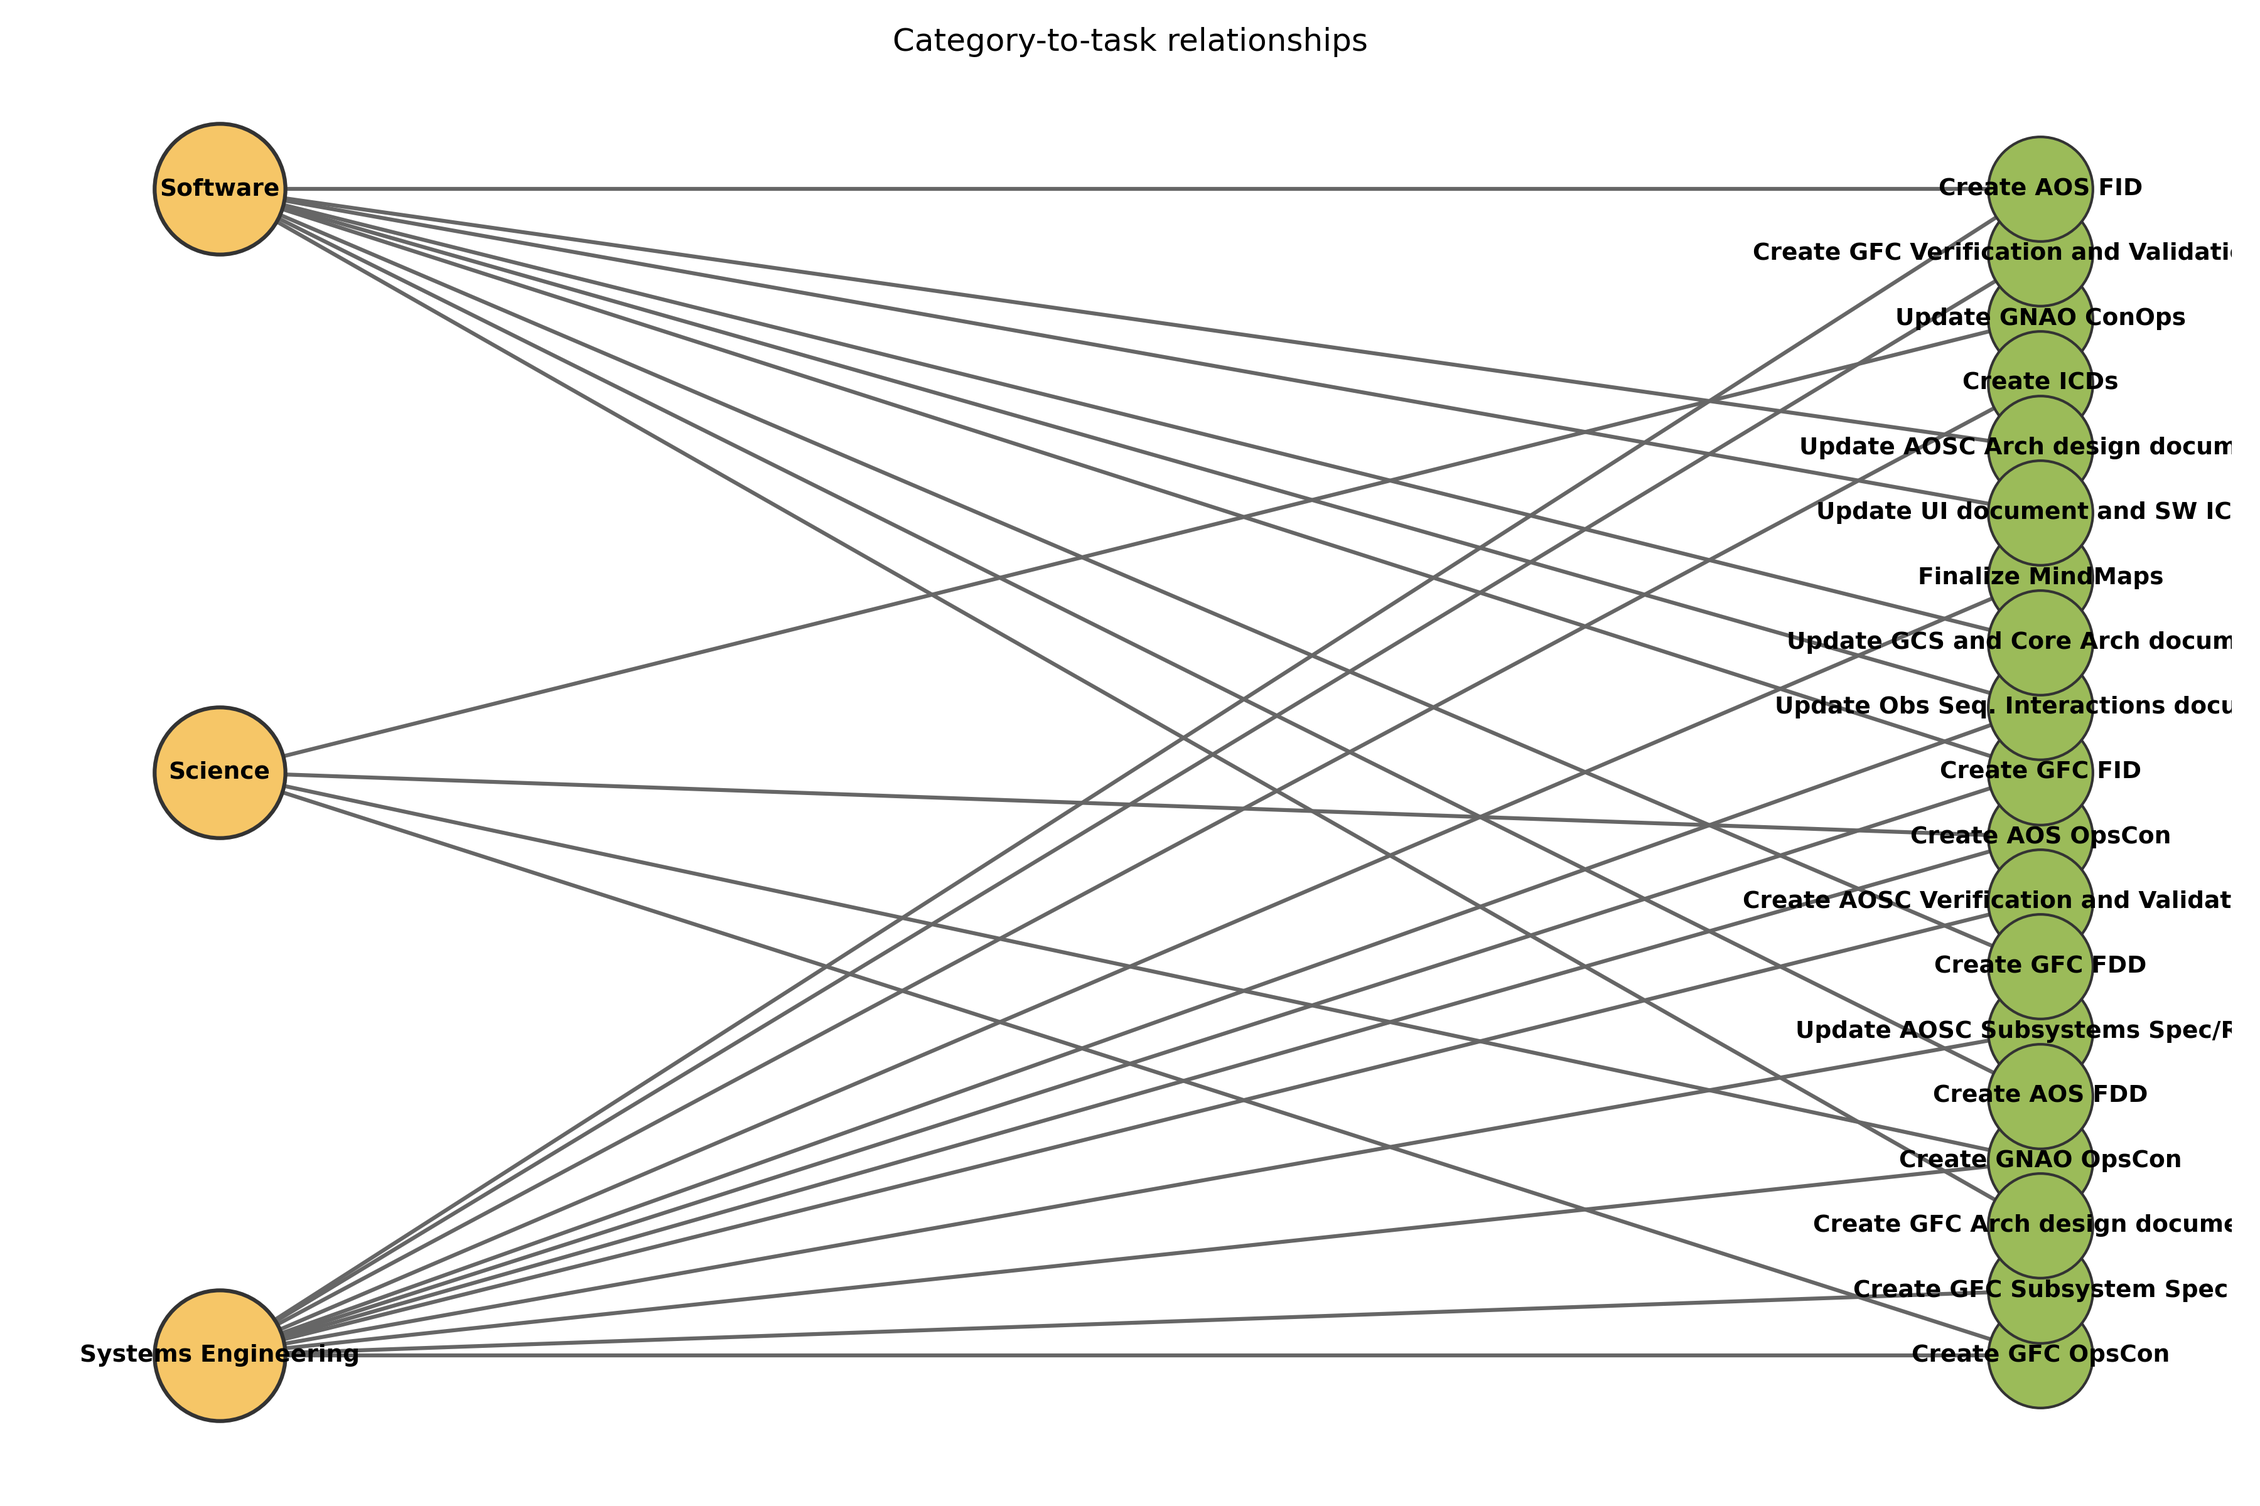
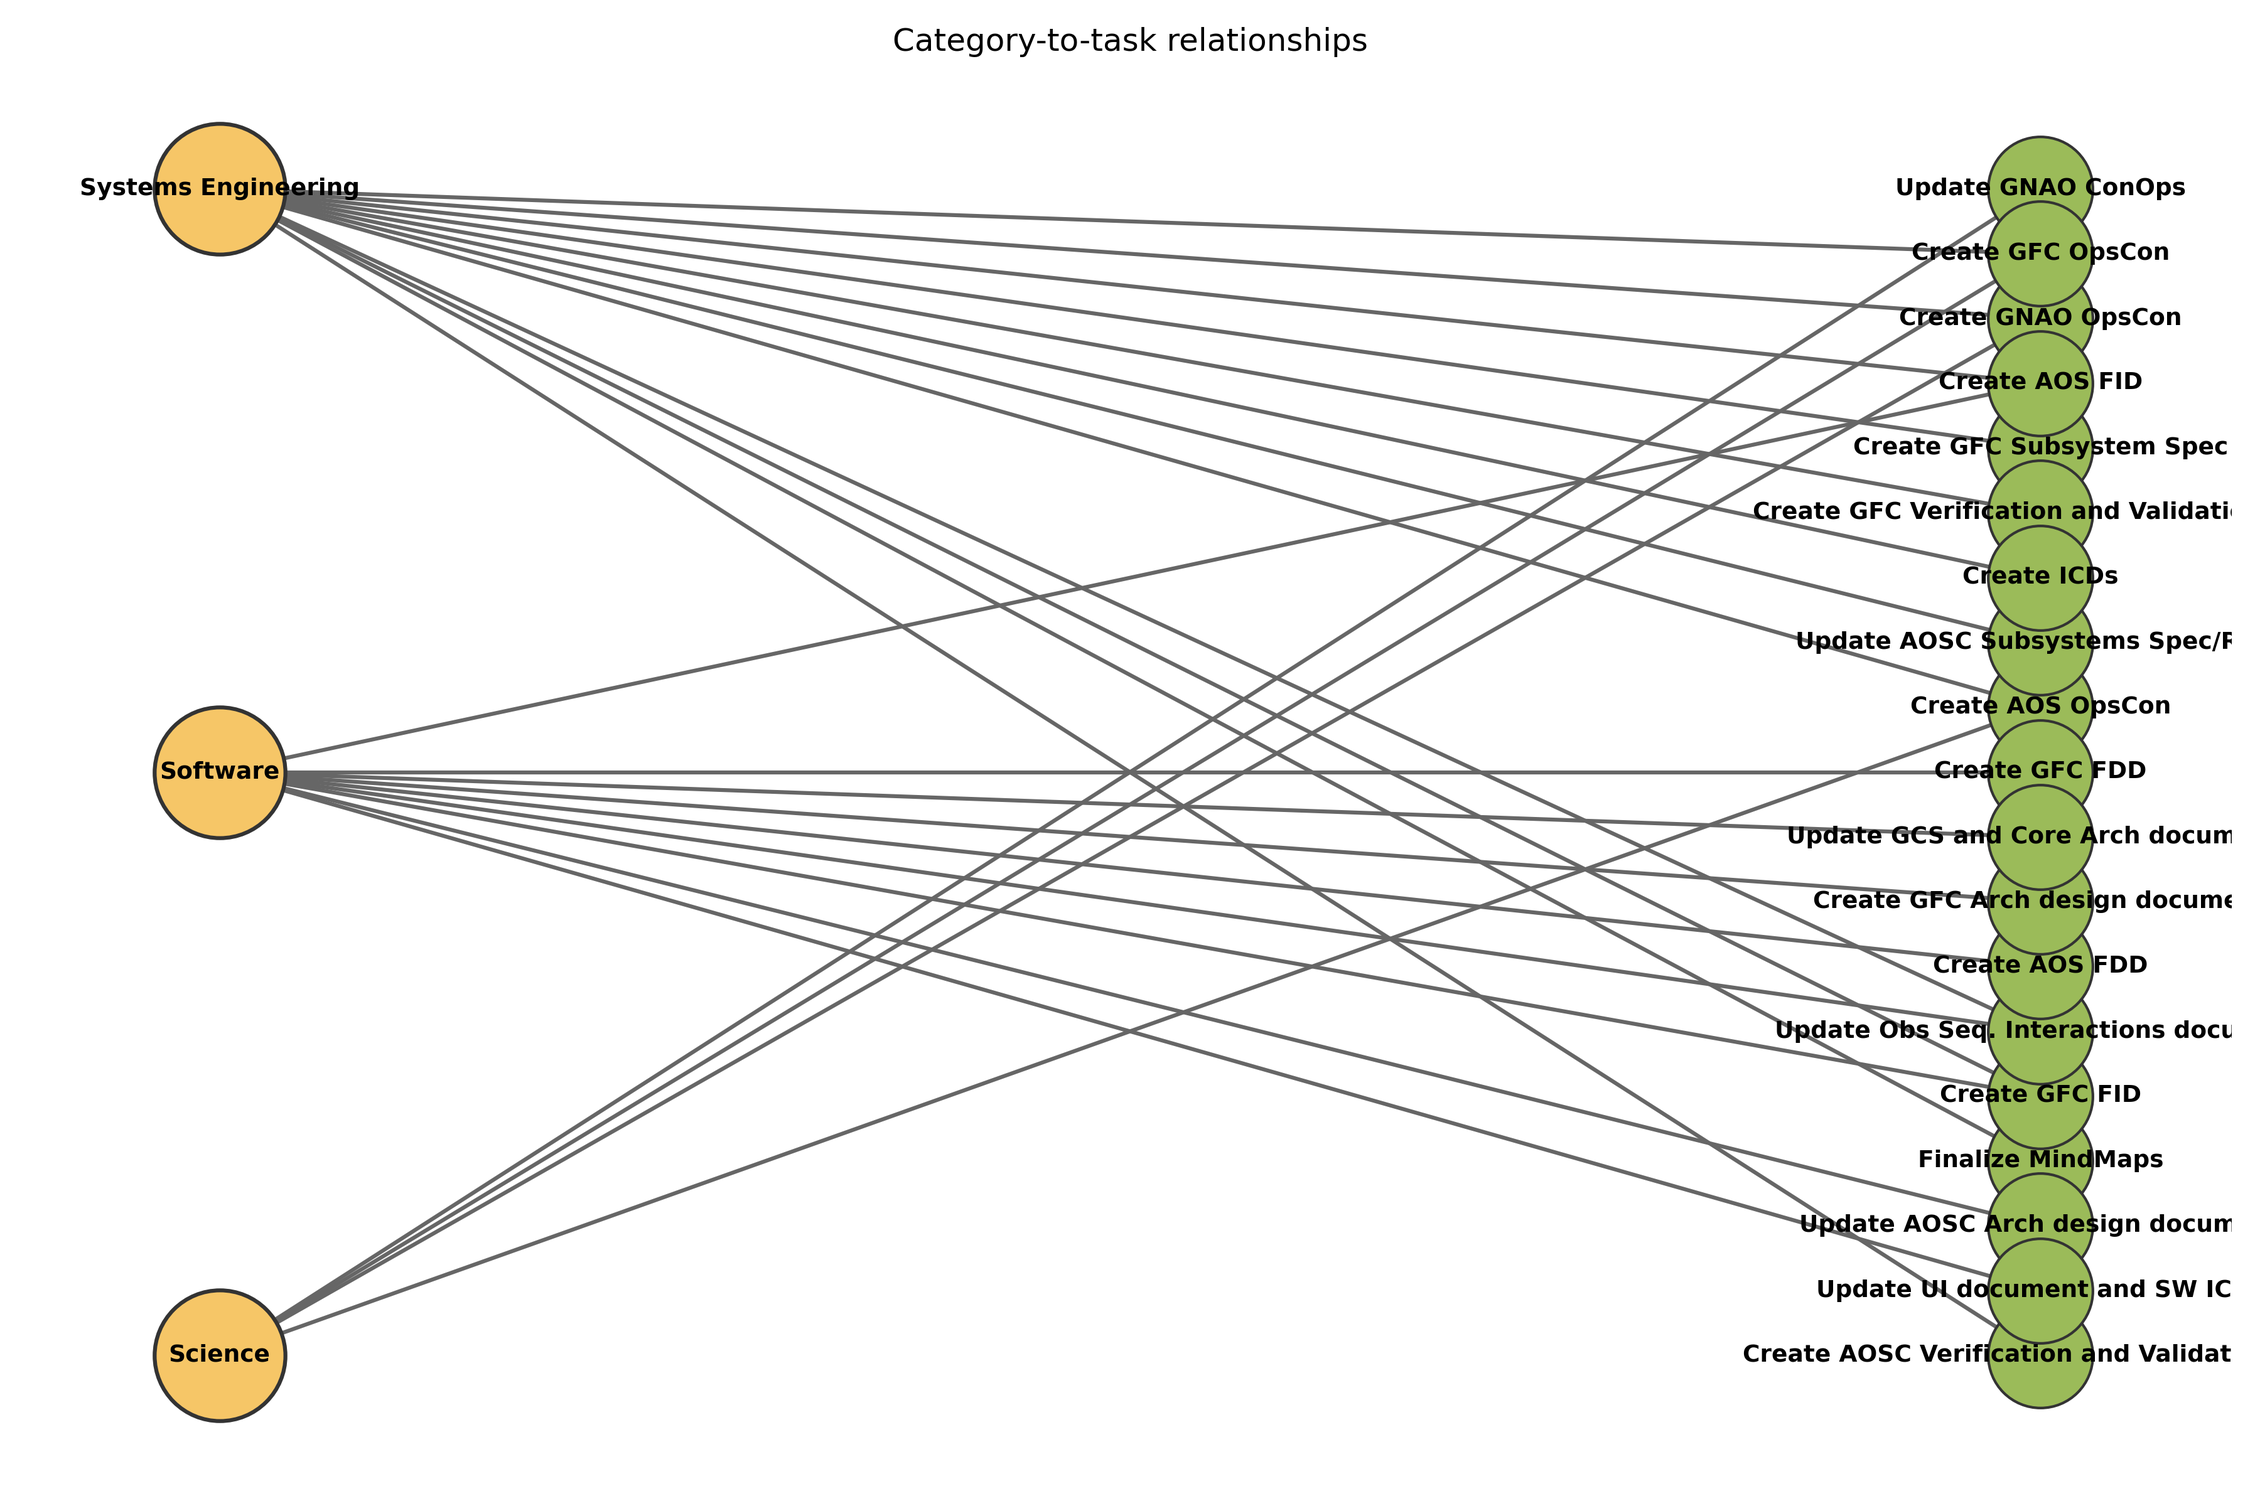
Move plan structure into YAML config

diff --git a/create_task_diagrams.py b/create_task_diagrams.py
@@ -6,7 +6,8 @@ from collections import Counter
 import math
 from pathlib import Path
 from typing import Iterable
-import re
+
+import yaml
 
 import matplotlib
 import networkx as nx
@@ -17,7 +18,7 @@ import matplotlib.pyplot as plt  # noqa: E402
 from matplotlib import colors as mcolors  # noqa: E402
 from matplotlib_venn import venn3  # noqa: E402
 
-MD_PATH = Path("GCS Plan to get to CDR.md")
+CONFIG_PATH = Path("index_config.yaml")
 OUTPUTS = {
     "venn": Path("tasks_venn.png"),
     "venn_detailed": Path("tasks_venn_detailed.png"),
@@ -26,72 +27,49 @@ OUTPUTS = {
     "heatmap": Path("category_task_heatmap.png"),
 }
 
-CATEGORY_ORDER = ["Science", "Systems Engineering", "Software"]
-SECTION_CATEGORY_MAP = {
-    "Science Tasks": {"Science"},
-    "Science + Systems Engineering Tasks": {"Science", "Systems Engineering"},
-    "Systems Engineering Tasks": {"Systems Engineering"},
-    "Systems Engineering + Software Tasks": {"Systems Engineering", "Software"},
-    "Software Tasks": {"Software"},
-}
-
-HEADING_PATTERN = re.compile(r"^(#+)\s+(.*?)(?:\s+\{#.*\})?\s*$")
+DEFAULT_CATEGORIES = ["Science", "Systems Engineering", "Software"]
 
 
-def clean_heading(text: str) -> str:
-    """Normalize markdown heading text."""
-    return text.replace("\\", "").strip()
+def load_config(config_path: Path) -> dict:
+    if not config_path.exists():
+        raise FileNotFoundError(f"Config file not found: {config_path}")
+    return yaml.safe_load(config_path.read_text())
 
 
-def extract_tasks(md_path: Path) -> list[dict[str, object]]:
-    """Parse the markdown and return tasks with their category assignments."""
-    if not md_path.exists():
-        raise FileNotFoundError(f"Markdown file not found: {md_path}")
-
+def extract_tasks(config: dict) -> list[dict[str, object]]:
     tasks: list[dict[str, object]] = []
-    current_section = None
-    with md_path.open("r", encoding="utf-8") as handle:
-        for raw_line in handle:
-            line = raw_line.rstrip("\n")
-            match = HEADING_PATTERN.match(line)
-            if not match:
-                continue
-            level = len(match.group(1))
-            heading = clean_heading(match.group(2))
-            if not heading:
-                continue
-            if level == 1:
-                current_section = heading
-            elif level == 2 and current_section in SECTION_CATEGORY_MAP:
-                categories = SECTION_CATEGORY_MAP[current_section]
-                tasks.append({
-                    "name": heading,
-                    "categories": set(categories),
-                    "parent_section": current_section,
-                })
+    for section in config.get("sections", []):
+        section_categories = set(section.get("categories", []))
+        for task in section.get("tasks", []):
+            task_categories = set(task.get("categories", [])) or section_categories
+            tasks.append({
+                "name": task["label"],
+                "categories": task_categories,
+                "parent_section": section["label"],
+            })
     if not tasks:
-        raise ValueError("No tasks extracted; check the markdown structure.")
+        raise ValueError("No tasks defined in the configuration.")
     return tasks
 
 
-def build_category_sets(tasks: Iterable[dict[str, object]]) -> dict[str, set[str]]:
+def build_category_sets(tasks: Iterable[dict[str, object]], category_order: list[str]) -> dict[str, set[str]]:
     """Return mapping of category -> task names."""
-    category_sets: dict[str, set[str]] = {cat: set() for cat in CATEGORY_ORDER}
+    category_sets: dict[str, set[str]] = {cat: set() for cat in category_order}
     for task in tasks:
         for category in task["categories"]:
             category_sets[category].add(str(task["name"]))
     return category_sets
 
 
-def draw_venn(category_sets: dict[str, set[str]]) -> None:
+def draw_venn(category_sets: dict[str, set[str]], category_order: list[str]) -> None:
     plt.figure(figsize=(8, 6))
     venn3(
         subsets=(
-            category_sets["Science"],
-            category_sets["Systems Engineering"],
-            category_sets["Software"],
+            category_sets[category_order[0]],
+            category_sets[category_order[1]],
+            category_sets[category_order[2]],
         ),
-        set_labels=CATEGORY_ORDER,
+        set_labels=category_order,
     )
     plt.title("Task Overlaps by Discipline")
     plt.tight_layout()
@@ -99,19 +77,19 @@ def draw_venn(category_sets: dict[str, set[str]]) -> None:
     plt.close()
 
 
-def draw_venn_detailed(category_sets: dict[str, set[str]]) -> None:
+def draw_venn_detailed(category_sets: dict[str, set[str]], category_order: list[str]) -> None:
     plt.figure(figsize=(10, 8))
     venn = venn3(
         subsets=(
-            category_sets["Science"],
-            category_sets["Systems Engineering"],
-            category_sets["Software"],
+            category_sets[category_order[0]],
+            category_sets[category_order[1]],
+            category_sets[category_order[2]],
         ),
-        set_labels=CATEGORY_ORDER,
+        set_labels=category_order,
     )
-    science = category_sets["Science"]
-    systems = category_sets["Systems Engineering"]
-    software = category_sets["Software"]
+    science = category_sets[category_order[0]]
+    systems = category_sets[category_order[1]]
+    software = category_sets[category_order[2]]
     region_map = {
         "100": sorted(science - systems - software),
         "010": sorted(systems - science - software),
@@ -178,16 +156,16 @@ def draw_bar_chart(tasks: list[dict[str, object]]) -> None:
     plt.close()
 
 
-def draw_network(tasks: list[dict[str, object]]) -> None:
+def draw_network(tasks: list[dict[str, object]], category_order: list[str]) -> None:
     graph = nx.Graph()
-    graph.add_nodes_from(CATEGORY_ORDER, kind="category")
+    graph.add_nodes_from(category_order, kind="category")
     for task in tasks:
         name = str(task["name"])
         graph.add_node(name, kind="task")
         for category in task["categories"]:
             graph.add_edge(category, name)
 
-    pos = nx.bipartite_layout(graph, CATEGORY_ORDER)
+    pos = nx.bipartite_layout(graph, category_order)
     plt.figure(figsize=(12, 8))
 
     cat_nodes = [node for node, data in graph.nodes(data=True) if data["kind"] == "category"]
@@ -221,10 +199,10 @@ def draw_network(tasks: list[dict[str, object]]) -> None:
     plt.close()
 
 
-def draw_heatmap(tasks: list[dict[str, object]]) -> None:
+def draw_heatmap(tasks: list[dict[str, object]], category_order: list[str]) -> None:
     task_names = [task["name"] for task in tasks]
     matrix = np.array(
-        [[1 if category in task["categories"] else 0 for category in CATEGORY_ORDER] for task in tasks]
+        [[1 if category in task["categories"] else 0 for category in category_order] for task in tasks]
     )
     cmap = mcolors.ListedColormap(["#D9E1F2", "#4472C4"])
 
@@ -232,7 +210,7 @@ def draw_heatmap(tasks: list[dict[str, object]]) -> None:
     plt.figure(figsize=(8, height))
     plt.imshow(matrix, aspect="auto", cmap=cmap)
     plt.colorbar(label="Membership", ticks=[0, 1])
-    plt.xticks(range(len(CATEGORY_ORDER)), CATEGORY_ORDER, rotation=20, ha="right")
+    plt.xticks(range(len(category_order)), category_order, rotation=20, ha="right")
     plt.yticks(range(len(task_names)), task_names)
     for row in range(matrix.shape[0]):
         for col in range(matrix.shape[1]):
@@ -245,14 +223,19 @@ def draw_heatmap(tasks: list[dict[str, object]]) -> None:
 
 
 def main() -> None:
-    tasks = extract_tasks(MD_PATH)
-    category_sets = build_category_sets(tasks)
+    config = load_config(CONFIG_PATH)
+    category_order = config.get("categories") or DEFAULT_CATEGORIES
+    if len(category_order) != 3:
+        raise ValueError("Venn diagrams require exactly three categories.")
 
-    draw_venn(category_sets)
-    draw_venn_detailed(category_sets)
+    tasks = extract_tasks(config)
+    category_sets = build_category_sets(tasks, category_order)
+
+    draw_venn(category_sets, category_order)
+    draw_venn_detailed(category_sets, category_order)
     draw_bar_chart(tasks)
-    draw_network(tasks)
-    draw_heatmap(tasks)
+    draw_network(tasks, category_order)
+    draw_heatmap(tasks, category_order)
 
     print("Generated diagrams:")
     for key, path in OUTPUTS.items():

diff --git a/generate_index_graph.py b/generate_index_graph.py
@@ -1,70 +1,44 @@
 #!/usr/bin/env python3
-"""Parse the markdown index and render it as a directed graph."""
+"""Render the plan structure defined in index_config.yaml as a directed graph."""
 from __future__ import annotations
 
 from pathlib import Path
-import re
 
 import matplotlib
 import networkx as nx
+import yaml
 
 matplotlib.use("Agg")
 import matplotlib.pyplot as plt  # noqa: E402
 
 
-MD_PATH = Path("GCS Plan to get to CDR.md")
+CONFIG_PATH = Path("index_config.yaml")
 OUTPUT_PATH = Path("index_graph.png")
 
 
-def parse_index(md_path: Path) -> list[dict[str, str | bool]]:
-    """Return a list of index entries from the markdown file."""
-    text = md_path.read_text()
-    lines = text.splitlines()
-    entries: list[dict[str, str | bool]] = []
-    capture = False
-
-    for line in lines:
-        if line.startswith("# Index"):
-            capture = True
-            continue
-        if capture and line.startswith("#"):
-            break
-        stripped = line.strip()
-        if not capture or not stripped or not stripped.startswith("["):
-            continue
-        match = re.search(r"\[(.*?)\]\(#(.*?)\)", stripped)
-        if not match:
-            continue
-        raw_label = match.group(1)
-        anchor = match.group(2)
-        label = raw_label.replace("**", "").strip()
-        label = re.sub(r"\s+\d+$", "", label).strip()
-        is_section = "**" in raw_label
-        entries.append({"label": label, "anchor": anchor, "is_section": is_section})
-
-    return entries
+def load_config(config_path: Path) -> dict:
+    if not config_path.exists():
+        raise FileNotFoundError(f"Config file not found: {config_path}")
+    return yaml.safe_load(config_path.read_text())
 
 
-def build_graph(entries: list[dict[str, str | bool]]) -> nx.DiGraph:
-    """Build a directed graph where sections connect to their tasks."""
+def build_graph(config: dict) -> nx.DiGraph:
+    """Build a directed graph based on the YAML configuration."""
+    root_label = config.get("root", {}).get("label", "Index")
     graph = nx.DiGraph()
-    root = "Index"
-    graph.add_node(root, kind="root")
-    current_section = root
+    graph.add_node(root_label, kind="root")
 
-    for entry in entries:
-        label = str(entry["label"])
-        kind = "section" if entry["is_section"] else "task"
-        if label == root:
-            current_section = root
-            continue
-        graph.add_node(label, kind=kind)
-        if kind == "section":
-            graph.add_edge(root, label)
-            current_section = label
-        else:
-            parent = current_section if current_section else root
-            graph.add_edge(parent, label)
+    for section in config.get("sections", []):
+        section_label = section["label"]
+        graph.add_node(section_label, kind=section.get("kind", "section"))
+        parent = section.get("parent") or root_label
+        graph.add_edge(parent, section_label)
+
+        for task in section.get("tasks", []):
+            task_label = task["label"]
+            graph.add_node(task_label, kind="task")
+            task_parent = task.get("parent") or section_label
+            graph.add_edge(task_parent, task_label)
 
     return graph
 
@@ -98,11 +72,9 @@ def draw_graph(graph: nx.DiGraph, out_path: Path) -> None:
 
 
 def main() -> None:
-    entries = parse_index(MD_PATH)
-    if not entries:
-        raise SystemExit("No index entries found in the markdown file")
+    config = load_config(CONFIG_PATH)
 
-    graph = build_graph(entries)
+    graph = build_graph(config)
     draw_graph(graph, OUTPUT_PATH)
 
 

diff --git a/README.md b/README.md
@@ -1,15 +1,16 @@
 # GCS Plan Visualization
 
-Tools for parsing the `GCS Plan to get to CDR.md` document and generating multiple visual summaries of the Science / Systems Engineering / Software workload.
+Tools for parsing the `GCS Plan to get to CDR.md` document and generating multiple visual summaries of the Science / Systems Engineering / Software workload. Task names and category mappings now live in `index_config.yaml`, so you can update the hierarchy without editing code.
 
 ## Contents
 - `generate_index_graph.py`: Builds a directed graph from the markdown index to show the hierarchy of sections and tasks.
 - `create_task_diagrams.py`: Extracts tasks per discipline and exports five diagrams (simple + detailed Venn, bar chart, bipartite network, heatmap).
 - `design.txt`: High-level design notes covering parsing logic and visualization goals.
+- `index_config.yaml`: Source of truth for sections, tasks, anchors, and category assignments.
 
 ## Requirements
 - Python 3.11 (runs inside the existing `py3.11` conda environment).
-- Packages: `matplotlib`, `matplotlib-venn`, `networkx`, `numpy` (install via `pip` in the environment if needed).
+- Packages: `matplotlib`, `matplotlib-venn`, `networkx`, `numpy`, `pyyaml` (install via `pip` in the environment if needed).
 
 ## Usage
 ```bash
@@ -17,7 +18,7 @@ Tools for parsing the `GCS Plan to get to CDR.md` document and generating multip
 conda run -n py3.11 python create_task_diagrams.py
 conda run -n py3.11 python generate_index_graph.py
 ```
-Each script reads `GCS Plan to get to CDR.md` from the repo root and writes PNG files alongside the source.
+Each script reads `index_config.yaml` (and, for context, `GCS Plan to get to CDR.md`) from the repo root and writes PNG files alongside the source. To rename tasks or adjust category assignments, edit `index_config.yaml` and rerun the scripts.
 
 ## Outputs
 - `index_graph.png`: Hierarchical view derived from the markdown index.
